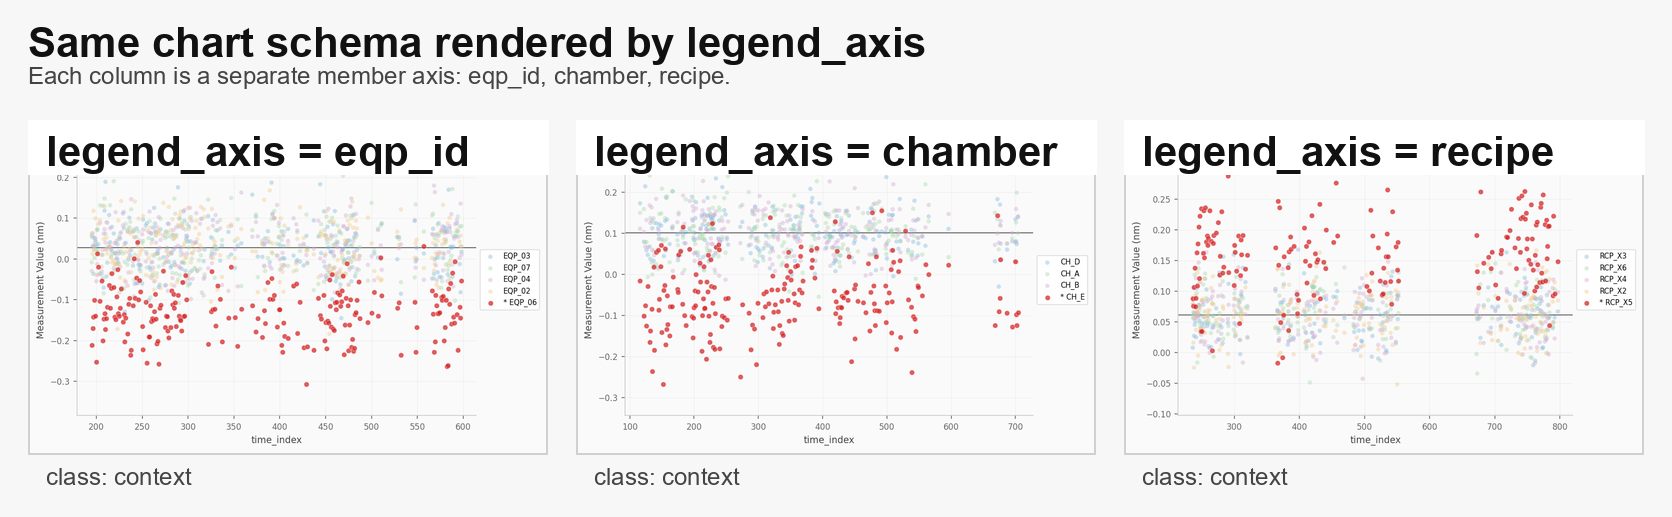
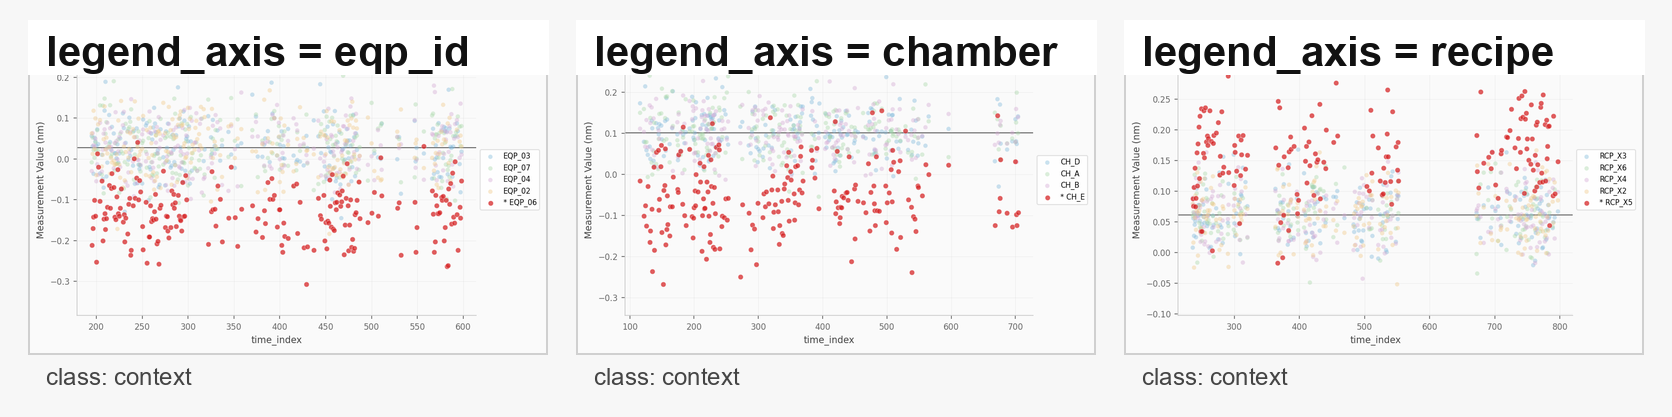
Legend Axis Image: drop in-image header, restore description as md text
The sample_overview_legend_axis.png had a baked-in English header band
("Same chart schema rendered by legend_axis" / "Each column is a separate
member axis...") which clashed with the rest of summary.md. Cropped the
top 100px so only the three sub-charts remain (each still labeled
legend_axis = eqp_id / chamber / recipe inside the chart).

Restore the descriptive text under the markdown heading instead, so the
explanation is in markdown body where it belongs.

diff --git a/docs/summary.md b/docs/summary.md
@@ -18,6 +18,9 @@
 ![display images by class](images/sample_overview_display.png)
 
 ### Legend Axis Image
+
+같은 `device/step/item` group 의 chart 라도 `legend_axis` 를 `eqp_id`, `chamber`, `recipe` 로 바꾸면 fleet member 와 legend 가 달라지므로 별도 이미지로 생성합니다. 각 column 은 다른 member 축으로 그린 같은 chart 의 변형 — 왼쪽 `eqp_id` (장비 단위), 가운데 `chamber` (챔버 단위), 오른쪽 `recipe` (레시피 단위). `highlighted_member` 는 빨강으로 강조되는 member 이고, 회색 가로 기준선이 `target` 값.
+
 ![display images by legend_axis](images/sample_overview_legend_axis.png)
 
 불량 class는 `mean_shift`, `standard_deviation`, `spike`, `drift`, `context` 다섯 종류이고, 각 이미지는 해당 class label로 학습됩니다.
